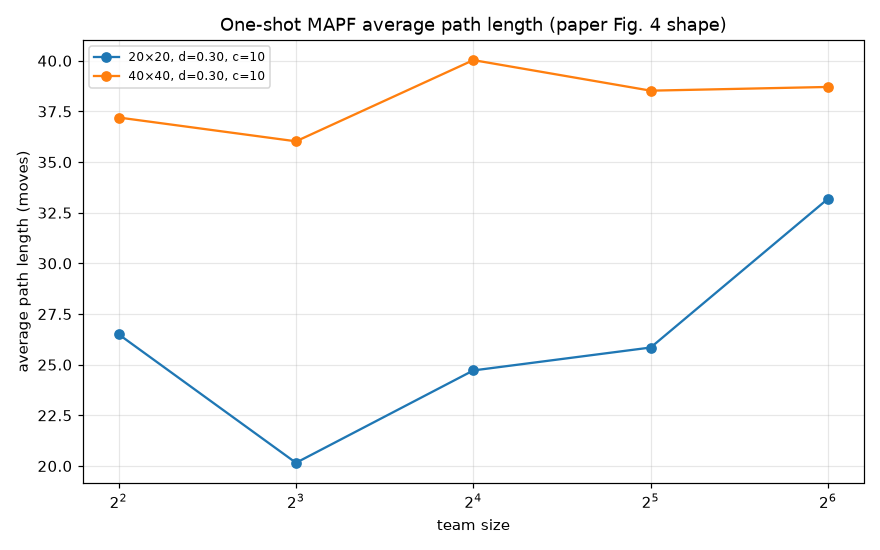
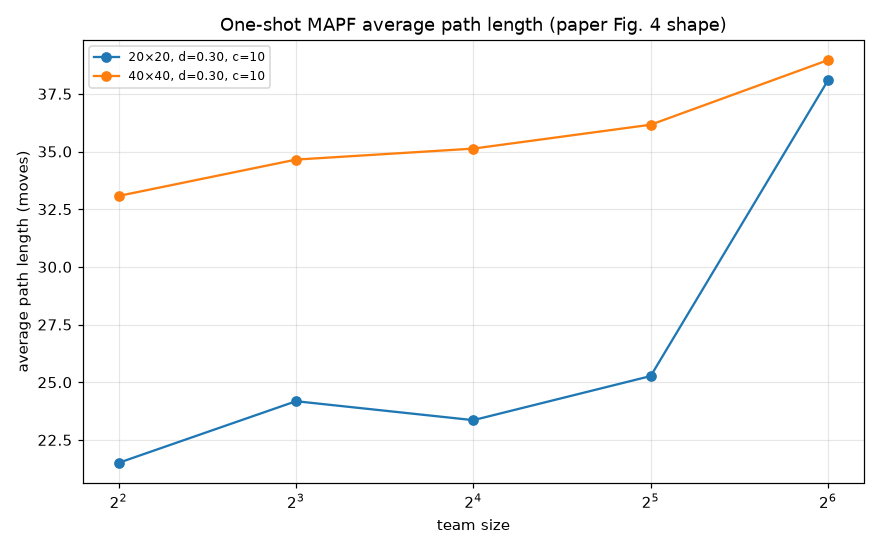
Fig-4 refresh: 10-seed sweep (tighter statistics, 100 instances)

diff --git a/docs/EVALUATION.md b/docs/EVALUATION.md
@@ -60,20 +60,21 @@ higher team sizes). See [`images/fig5_lmapf.png`](images/fig5_lmapf.png).
 
 ## Fig-4 (one-shot MAPF) reproduction
 
-Aggregated over 5 seeds per configuration, timestep budgets follow the paper
+Aggregated over 10 seeds per configuration, timestep budgets follow the paper
 (Section VI.A: 320 for size 20/40):
 
 | World | Team | 100 % succ. | 95 % succ. | Makespan | Avg path len |
 | ---:| ---:| ---:| ---:| ---:| ---:|
-| 20×20 | 4 | 1.00 | 1.00 | 75 | 26.5 |
-| 20×20 | 8 | 0.60 | 0.60 | 47 | 20.2 |
-| 20×20 | 16 | 0.20 | 0.22 | 118 | 24.7 |
-| 20×20 | 32 | 0.00 | 0.00 | — | 25.8 |
-| 40×40 | 4 | 1.00 | 1.00 | 86 | 37.2 |
-| 40×40 | 8 | 1.00 | 1.00 | 112 | 36.0 |
-| 40×40 | 16 | 0.80 | 0.80 | 137 | 40.0 |
-| 40×40 | 32 | 0.40 | 0.40 | 168 | 38.5 |
-| 40×40 | 64 | 0.00 | 0.00 | — | 38.7 |
+| 20×20 | 4 | 0.80 | 0.80 | 46 | 21.5 |
+| 20×20 | 8 | 0.60 | 0.60 | 78 | 24.2 |
+| 20×20 | 16 | 0.30 | 0.31 | 93 | 23.4 |
+| 20×20 | 32 | 0.00 | 0.01 | — | 25.3 |
+| 20×20 | 64 | 0.00 | 0.00 | — | 38.1 |
+| 40×40 | 4 | 1.00 | 1.00 | 51 | 33.1 |
+| 40×40 | 8 | 1.00 | 1.00 | 98 | 34.6 |
+| 40×40 | 16 | 0.60 | 0.62 | 108 | 35.1 |
+| 40×40 | 32 | 0.30 | 0.33 | 194 | 36.2 |
+| 40×40 | 64 | 0.00 | 0.00 | — | 39.0 |
 
 Success rate falls with team size and holds up longer on the larger world —
 again matching the qualitative shape of Fig. 4 in the paper. See